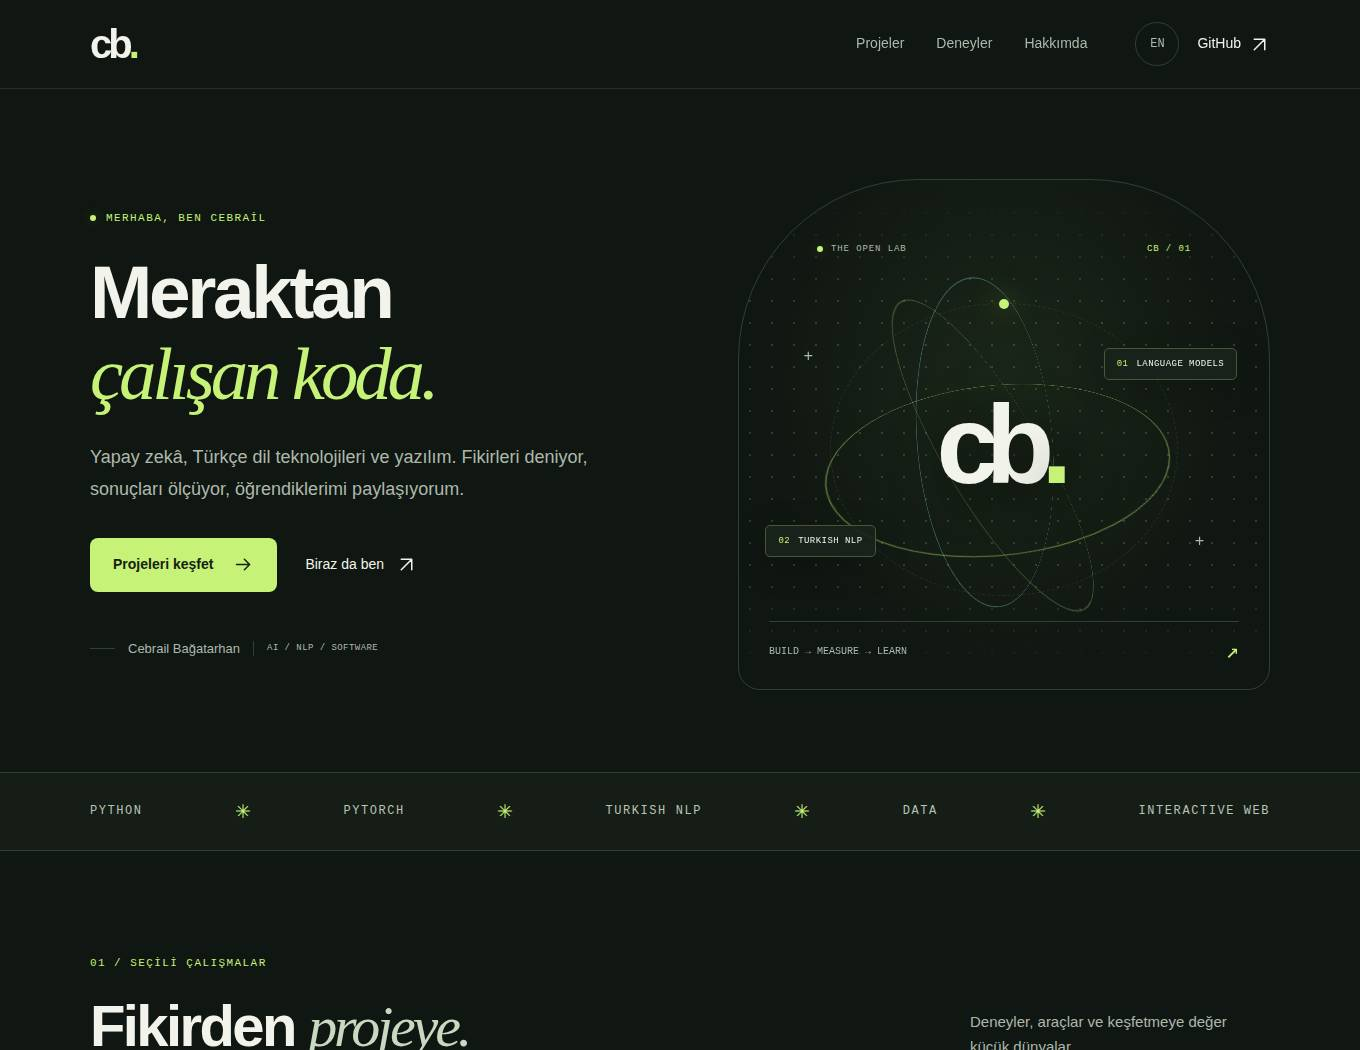
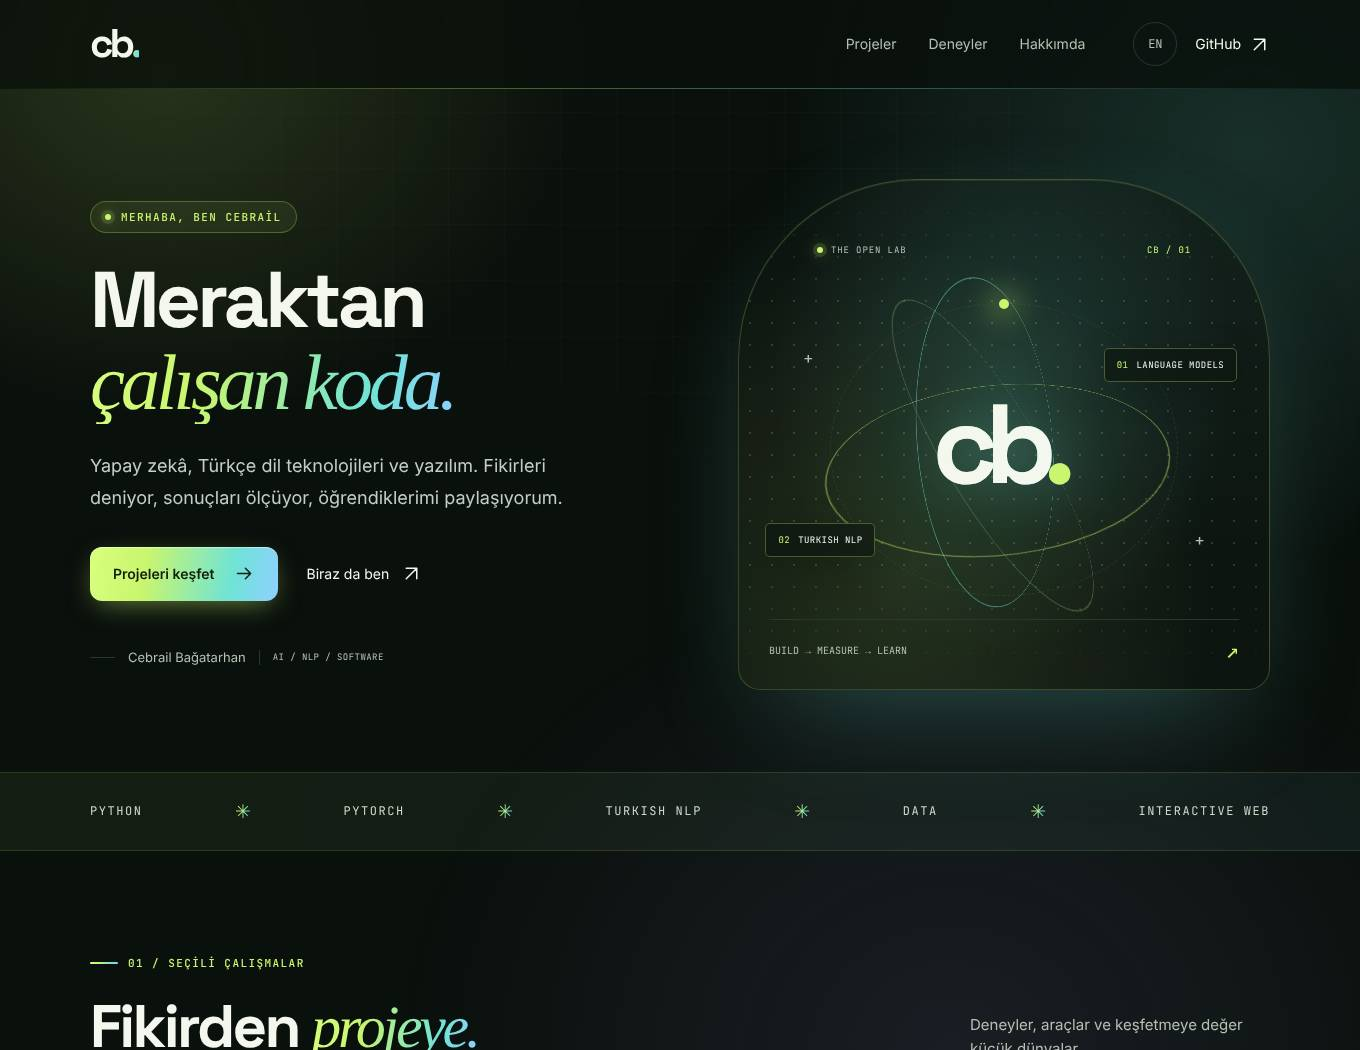
Polish portfolio visuals: gradient hero, glass cards, refined typography
Adds a visual polish layer (gradient mesh background, gradient headline
and CTA, glass cards with accent glow, pill filters/tags, scroll reveals
gated behind prefers-reduced-motion) and loads Space Grotesk, Inter and
JetBrains Mono with system fallbacks. Refreshes preview screenshots.

Claude-Session: https://claude.ai/code/session_01ERHhq8SnJU4DDNQpKsnvW4

diff --git a/docs/styles.css b/docs/styles.css
@@ -15,3 +15,166 @@ dialog{background:var(--panel);color:var(--ink);border:1px solid #586d4b;border-
 
 /* Keep the corner labels inside the rounded orbital frame. */
 .art-label{top:64px;left:78px;right:78px}@media(max-width:560px){.art-label{top:60px;left:60px;right:60px}}
+
+
+/* =====================================================================
+   Visual polish layer: vibrant palette, glass surfaces, glow, motion.
+   Everything below overrides the base rules above.
+   ===================================================================== */
+:root{
+  --bg:#0a100c;--panel:#111a14;--panel-2:#17231a;--ink:#f4f7ee;--muted:#b3c0b2;--line:#27392b;
+  --lime:#c9f56f;--aqua:#6fe3d6;--violet:#a99bff;
+  --grad:linear-gradient(100deg,#d8ff7e 0%,#c9f56f 30%,#6fe3d6 75%,#8fd0ff 100%);
+  --glass:linear-gradient(160deg,rgba(255,255,255,.06),rgba(255,255,255,.015) 55%);
+  --font:"Inter","Segoe UI",Arial,Helvetica,sans-serif;
+  --display:"Space Grotesk","Inter","Segoe UI",Arial,sans-serif;
+  --mono:"JetBrains Mono","SFMono-Regular",Consolas,"Liberation Mono",monospace;
+}
+body{background:var(--bg);position:relative}
+h1,h2,h3,.brand,.mini-metric,.orbit-core,.art-center,.metric-insight strong,.seven{font-family:var(--display)}
+em{font-family:Georgia,"Times New Roman",serif}
+::selection{background:var(--lime);color:#0a100c}
+
+/* Ambient background: gradient mesh + faint grid (fixed, never scrolls horizontally) */
+body::before,body::after{content:"";position:fixed;inset:0;pointer-events:none;z-index:-1}
+body::before{
+  background:
+    radial-gradient(620px 520px at 12% 6%,rgba(201,245,111,.16),transparent 70%),
+    radial-gradient(700px 600px at 92% 14%,rgba(111,227,214,.15),transparent 70%),
+    radial-gradient(800px 700px at 70% 100%,rgba(169,155,255,.10),transparent 70%);
+}
+body::after{
+  opacity:.5;
+  background-image:linear-gradient(rgba(255,255,255,.035) 1px,transparent 1px),linear-gradient(90deg,rgba(255,255,255,.035) 1px,transparent 1px);
+  background-size:56px 56px;
+  -webkit-mask-image:radial-gradient(ellipse 80% 60% at 50% 20%,#000 20%,transparent 75%);
+  mask-image:radial-gradient(ellipse 80% 60% at 50% 20%,#000 20%,transparent 75%);
+}
+
+/* Header */
+.site-header{background:rgba(10,16,12,.78);backdrop-filter:blur(18px) saturate(1.4);-webkit-backdrop-filter:blur(18px) saturate(1.4);border-bottom:1px solid transparent;border-image:linear-gradient(90deg,transparent,rgba(201,245,111,.35),rgba(111,227,214,.35),transparent) 1}
+.brand span{background:var(--grad);-webkit-background-clip:text;background-clip:text;color:transparent}
+.nav-links a{position:relative}
+.nav-links a:after{content:"";position:absolute;left:0;right:0;bottom:6px;height:2px;border-radius:2px;background:var(--grad);transform:scaleX(0);transform-origin:left;transition:transform .3s}
+.nav-links a:hover:after{transform:scaleX(1)}
+.language-toggle:hover{box-shadow:0 0 18px rgba(201,245,111,.3)}
+
+/* Hero */
+.hero h1{font-size:clamp(48px,5.8vw,84px);line-height:1.04;letter-spacing:-.05em}
+.hero h1 em{background:var(--grad);-webkit-background-clip:text;background-clip:text;color:transparent;padding-right:.08em;display:inline-block}
+.hero-description{color:#c3cfc2}
+.eyebrow{color:var(--lime)}
+.hero .eyebrow{display:inline-flex;padding:7px 14px;border:1px solid rgba(201,245,111,.28);border-radius:999px;background:rgba(201,245,111,.07)}
+.status-dot{box-shadow:0 0 0 4px rgba(201,245,111,.15),0 0 16px rgba(201,245,111,.8)}
+.button{border-radius:12px;position:relative}
+.button-primary{background:var(--grad);color:#102008;box-shadow:0 8px 28px -8px rgba(201,245,111,.55),inset 0 1px 0 rgba(255,255,255,.45)}
+.button-primary:hover{background:var(--grad);box-shadow:0 12px 40px -6px rgba(201,245,111,.75),0 0 0 4px rgba(201,245,111,.14),inset 0 1px 0 rgba(255,255,255,.5);transform:translateY(-3px)}
+.button .icon{transition:transform .25s}
+.button:hover .icon{transform:translateX(4px)}
+.text-link{border-bottom:1px solid transparent}
+.text-link:hover{color:var(--lime)}
+
+/* Hero art */
+.hero-art{border-color:rgba(201,245,111,.22);background:radial-gradient(ellipse at 50% 38%,rgba(111,227,214,.16),transparent 62%),radial-gradient(ellipse at 30% 80%,rgba(201,245,111,.12),transparent 60%),rgba(17,26,20,.55);box-shadow:0 40px 120px -40px rgba(111,227,214,.35),inset 0 1px 0 rgba(255,255,255,.08)}
+.orbit-core{background:var(--grad);-webkit-background-clip:text;background-clip:text;color:#f4f7ee;text-shadow:none;filter:drop-shadow(0 0 28px rgba(111,227,214,.35))}
+.orbit-core span{color:var(--lime)}
+.orbit-path span{box-shadow:0 0 30px 6px rgba(201,245,111,.6)}
+.orbit-1{border-color:rgba(201,245,111,.6)}.orbit-3{border-color:rgba(111,227,214,.45)}
+.art-note{background:rgba(14,22,17,.72);backdrop-filter:blur(10px);-webkit-backdrop-filter:blur(10px);border-color:rgba(201,245,111,.3)}
+
+/* Strip */
+.discipline-strip{background:linear-gradient(90deg,rgba(201,245,111,.06),rgba(111,227,214,.06));border-color:rgba(201,245,111,.14)}
+.discipline-inner span{color:#cdd8ca;transition:color .2s}
+.discipline-inner span:hover{color:var(--lime)}
+.discipline-inner i{background:var(--grad);-webkit-background-clip:text;background-clip:text;color:transparent}
+
+/* Section headers */
+.section-heading h2,.about-grid h2,.lab-copy h2{font-size:clamp(35px,4.6vw,60px);letter-spacing:-.045em}
+.section-heading em,.about-grid em{background:var(--grad);-webkit-background-clip:text;background-clip:text;color:transparent;padding-right:.06em;display:inline-block}
+.section-heading .eyebrow:before,.lab-copy .eyebrow:before,.about-grid .eyebrow:before{content:"";width:28px;height:2px;border-radius:2px;background:var(--grad);flex-shrink:0}
+
+/* Filters */
+.filter-button{border-radius:999px;background:rgba(255,255,255,.03);transition:all .25s}
+.filter-button:hover{border-color:rgba(201,245,111,.5);color:var(--ink);background:rgba(201,245,111,.06)}
+.filter-button[aria-pressed="true"]{background:var(--grad);color:#102008;border-color:transparent;box-shadow:0 6px 22px -8px rgba(201,245,111,.7)}
+
+/* Cards */
+.project-card{background:var(--glass),var(--panel);border-color:rgba(255,255,255,.09);position:relative;box-shadow:0 1px 0 rgba(255,255,255,.06) inset,0 18px 40px -28px rgba(0,0,0,.8);transition:transform .35s cubic-bezier(.2,.8,.2,1),border-color .35s,box-shadow .35s}
+.project-card:before{content:"";position:absolute;inset:0;border-radius:inherit;padding:1px;pointer-events:none;z-index:2;opacity:0;transition:opacity .35s;background:linear-gradient(145deg,var(--accent),transparent 45%,var(--accent));-webkit-mask:linear-gradient(#000 0 0) content-box,linear-gradient(#000 0 0);-webkit-mask-composite:xor;mask:linear-gradient(#000 0 0) content-box exclude,linear-gradient(#000 0 0)}
+.project-card:hover{transform:translateY(-8px);box-shadow:0 30px 70px -30px color-mix(in srgb,var(--accent) 55%,transparent),0 0 0 1px color-mix(in srgb,var(--accent) 25%,transparent)}
+.project-card:hover:before{opacity:1}
+.project-card:focus-within:before{opacity:.7}
+.project-art{transition:filter .35s}
+.project-art:after{content:"";position:absolute;inset:0;pointer-events:none;background:radial-gradient(circle at 80% 0%,color-mix(in srgb,var(--accent) 22%,transparent),transparent 55%)}
+.research-art:after{background:radial-gradient(circle at 80% 0%,rgba(201,245,111,.2),transparent 55%),repeating-linear-gradient(0deg,transparent,transparent 39px,#c5f27708 40px)}
+.token-art:after{inset:auto;right:18px;top:24px;bottom:0;background:none}
+.project-card:hover .project-art{filter:saturate(1.25) brightness(1.08)}
+.project-card h3{font-weight:600;letter-spacing:-.03em}
+.tags li{font-size:10.5px;padding:5px 10px;border-radius:999px;border:1px solid color-mix(in srgb,var(--accent) 30%,transparent);background:color-mix(in srgb,var(--accent) 9%,transparent);color:color-mix(in srgb,var(--accent) 70%,#fff)}
+.card-actions{border-top-color:rgba(255,255,255,.09)}
+.card-actions a .icon{transition:transform .25s}
+.card-actions a:hover .icon{transform:translate(3px,-3px)}
+.all-projects{border-radius:14px;background:rgba(255,255,255,.025);border-style:dashed;transition:all .3s}
+.all-projects:hover{background:rgba(201,245,111,.07);box-shadow:0 0 30px -8px rgba(201,245,111,.4)}
+
+/* Lab */
+.lab-section{background:linear-gradient(180deg,rgba(20,31,23,.85),rgba(14,22,17,.85));border-color:rgba(201,245,111,.14);position:relative}
+.lab-section:before{content:"";position:absolute;left:0;right:0;top:-1px;height:1px;background:linear-gradient(90deg,transparent,var(--lime),var(--aqua),transparent);opacity:.6}
+.lab-copy h2 em{background:var(--grad);-webkit-background-clip:text;background-clip:text;color:transparent;padding-right:.06em;display:inline-block}
+.experiment-panel{background:var(--glass),#0c130e;border-color:rgba(201,245,111,.25);box-shadow:0 30px 80px -40px rgba(111,227,214,.35),inset 0 1px 0 rgba(255,255,255,.07)}
+.metric-controls{background:rgba(255,255,255,.05);border-radius:12px}
+.metric-controls button{border-radius:8px;transition:all .25s}
+.metric-controls button[aria-pressed="true"]{background:rgba(201,245,111,.16);box-shadow:inset 0 0 0 1px rgba(201,245,111,.35)}
+.bar-track{background:rgba(255,255,255,.07);border-radius:999px;height:14px}
+.bar{border-radius:999px;transition:width .6s cubic-bezier(.2,.8,.2,1)}
+.bar-off{background:linear-gradient(90deg,#8fe35a,var(--lime),var(--aqua));box-shadow:0 0 16px rgba(201,245,111,.5)}
+.bar-legacy{background:linear-gradient(90deg,#4d5f47,#7b8f6c)}
+.metric-insight strong{background:var(--grad);-webkit-background-clip:text;background-clip:text;color:transparent}
+
+/* About */
+.skill-list li{border-radius:999px;background:rgba(255,255,255,.03);transition:all .25s}
+.skill-list li:hover{border-color:rgba(201,245,111,.5);color:var(--lime);transform:translateY(-2px);background:rgba(201,245,111,.07)}
+.principles>div{padding:24px;border:1px solid rgba(255,255,255,.08);border-radius:18px;background:var(--glass);transition:transform .3s,border-color .3s}
+.principles>div:hover{transform:translateY(-4px);border-color:rgba(201,245,111,.4)}
+.principles>div>span{background:var(--grad);-webkit-background-clip:text;background-clip:text;color:transparent}
+
+/* Contact */
+.contact-card{background:radial-gradient(600px 300px at 90% 0%,rgba(111,227,214,.55),transparent 70%),linear-gradient(135deg,#d8ff7e,#b9ee62 55%,#8fe3b0);box-shadow:0 40px 100px -40px rgba(201,245,111,.55),inset 0 1px 0 rgba(255,255,255,.5)}
+.button-dark{box-shadow:0 10px 30px -10px rgba(0,0,0,.6)}
+.button-dark:hover{background:#0f1a0a;box-shadow:0 14px 40px -8px rgba(0,0,0,.7),0 0 0 4px rgba(16,32,8,.2)}
+.site-footer{border-top-color:rgba(255,255,255,.09)}
+
+/* Dialog */
+dialog{background:var(--glass),var(--panel);border-color:rgba(201,245,111,.3);box-shadow:0 30px 150px #000c,0 0 80px -30px rgba(201,245,111,.35)}
+.dialog-close{transition:all .25s}.dialog-close:hover{border-color:var(--lime);box-shadow:0 0 18px rgba(201,245,111,.4)}
+
+/* Focus visibility */
+button:focus-visible,a:focus-visible,summary:focus-visible{outline:3px solid var(--aqua);outline-offset:4px;border-radius:8px}
+
+/* Motion (all of it is opt-in and removed for reduced motion) */
+@media(prefers-reduced-motion:no-preference){
+  @keyframes rise{from{opacity:0;transform:translateY(22px)}to{opacity:1;transform:none}}
+  @keyframes floaty{0%,100%{transform:translateY(0)}50%{transform:translateY(-10px)}}
+  @keyframes drift{0%,100%{transform:translate3d(0,0,0)}50%{transform:translate3d(2%,3%,0)}}
+  @keyframes shimmer{to{background-position:200% center}}
+  body::before{animation:drift 22s ease-in-out infinite}
+  .hero-copy>*{animation:rise .8s cubic-bezier(.2,.8,.2,1) both}
+  .hero-copy>:nth-child(2){animation-delay:.08s}.hero-copy>:nth-child(3){animation-delay:.16s}.hero-copy>:nth-child(4){animation-delay:.24s}.hero-copy>:nth-child(5){animation-delay:.32s}
+  .hero-art{animation:rise 1s .2s cubic-bezier(.2,.8,.2,1) both}
+  .orbital-system{animation:floaty 9s ease-in-out infinite}
+  .hero h1 em{background-size:200% auto;animation:shimmer 8s linear infinite}
+  .hero h1 em{background-image:linear-gradient(100deg,#d8ff7e,#6fe3d6,#8fd0ff,#c9f56f,#d8ff7e)}
+}
+@supports(animation-timeline:view()){
+  @media(prefers-reduced-motion:no-preference){
+    @keyframes reveal{from{opacity:0;transform:translateY(36px) scale(.98)}to{opacity:1;transform:none}}
+    .project-card,.principles>div,.experiment-panel,.contact-card{animation:reveal linear both;animation-timeline:view();animation-range:entry 0% entry 40%}
+  }
+}
+@media(max-width:560px){
+  body::after{background-size:40px 40px}
+  .principles>div{padding:18px}
+  .principles>div{grid-template-columns:40px 1fr}
+  .hero h1{font-size:clamp(43px,11vw,61px)}
+}
+@media(prefers-reduced-motion:reduce){html{scroll-behavior:auto}*,*:before,*:after{animation:none!important;transition:none!important}}

diff --git a/docs/index.html b/docs/index.html
@@ -3,13 +3,16 @@
 <head>
   <meta charset="utf-8">
   <meta name="viewport" content="width=device-width, initial-scale=1">
-  <meta name="theme-color" content="#101611">
+  <meta name="theme-color" content="#0a100c">
   <meta name="description" content="Cebrail Bağatarhan'ın kişisel portföyü. Yapay zekâ deneyleri, Türkçe NLP araçları ve açık kaynak yazılım projeleri.">
   <meta property="og:title" content="Cebrail Bağatarhan — AI, Türkçe NLP & Yazılım">
   <meta property="og:description" content="Meraktan çalışan koda. Modeller, deneyler ve keşfedilecek açık kaynak projeler.">
   <meta property="og:type" content="website">
   <title>Cebrail Bağatarhan — AI, Türkçe NLP & Yazılım</title>
   <link rel="icon" href="./favicon.svg" type="image/svg+xml">
+  <link rel="preconnect" href="https://fonts.googleapis.com">
+  <link rel="preconnect" href="https://fonts.gstatic.com" crossorigin>
+  <link rel="stylesheet" href="https://fonts.googleapis.com/css2?family=Inter:wght@400;500;600&family=JetBrains+Mono:wght@400;500&family=Space+Grotesk:wght@500;600;700&display=swap">
   <link rel="stylesheet" href="./styles.css">
   <script src="./app.js" defer></script>
 </head>
